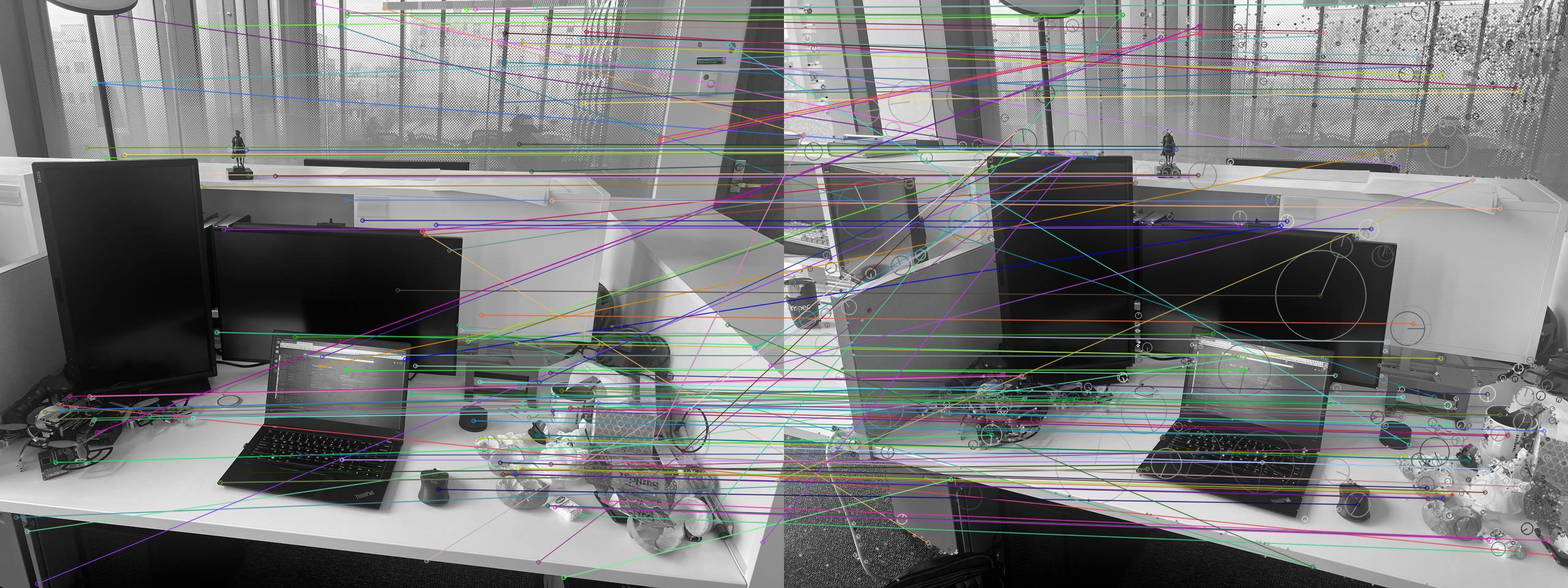
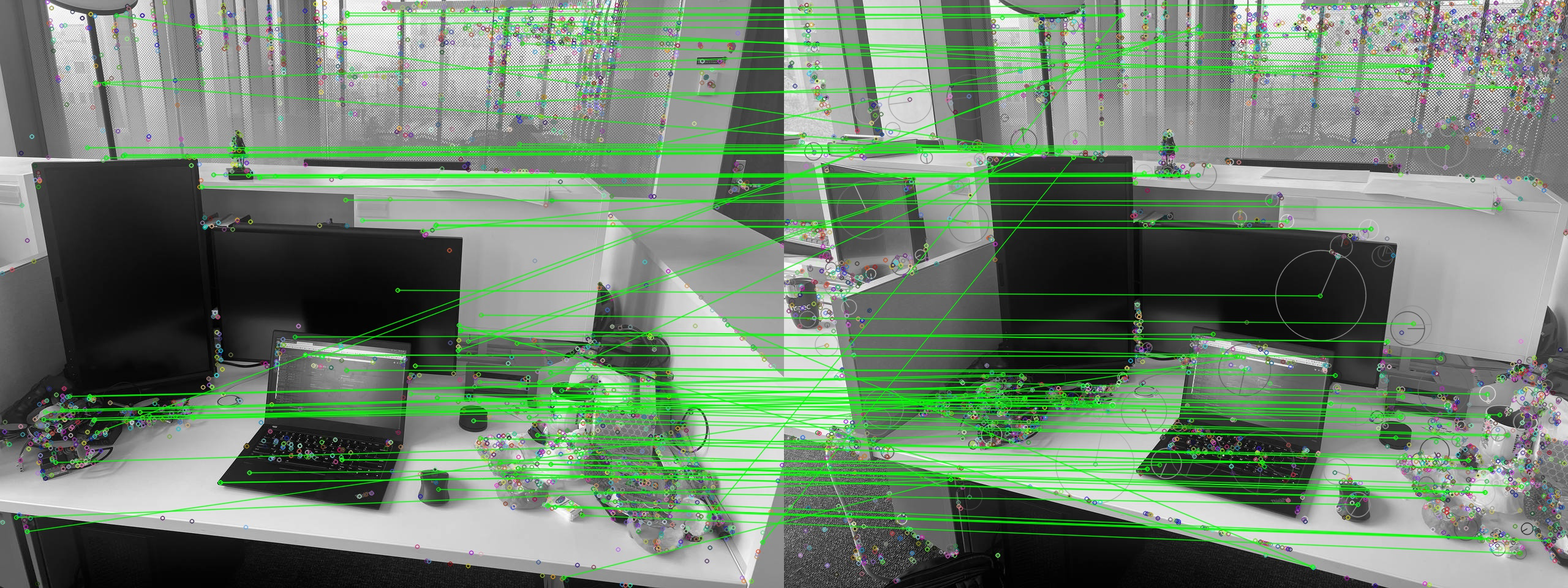
feature matching

Changed region(s): [[0.0, 0.0, 1.0, 0.9688], [0.9375, 0.2812, 0.9688, 0.3125], [0.3438, 0.9688, 0.375, 1.0]]

diff --git a/src/keyframe_detector/keyframe_detector.py b/src/keyframe_detector/keyframe_detector.py
@@ -36,15 +36,39 @@ class KeyframeDetector():
         
         good = []
         for m,n in matches:
-            if m.distance < 0.75 * n.distance:
-                good.append([m])
+            if m.distance < 0.7 * n.distance:
+                good.append(m)
         
         # cv.drawMatchesKnn expects list of lists as matches.
-        match_img = cv.drawMatchesKnn(gray, kp, 
+        draw_params = dict(matchColor = (0,255,0), 
+                           singlePointColor = None
+        )
+        match_img = cv.drawMatches(gray, kp, 
                                  prev_gray, prev_kp, 
                                  good, None,
-                                 flags=cv.DrawMatchesFlags_NOT_DRAW_SINGLE_POINTS)
+                                 **draw_params)
         cv.imwrite("./test.jpg", match_img)
+
+        # RANSAC
+        query_pts = np.float32([kp[m.queryIdx].pt for m in good]).reshape(-1,1,2)
+        train_pts = np.float32([prev_kp[m.trainIdx].pt for m in good]).reshape(-1,1,2)
+        M, mask = cv.findHomography(query_pts, train_pts, cv.RANSAC, 5.0)
+        matchesMask = mask.ravel().tolist()
+
+         
+        # render
+        draw_params = dict(matchColor = (0,255,0), 
+                           singlePointColor = None,
+                           matchesMask = matchesMask # draw only inliers
+        )
+
+        match_img = cv.drawMatches(gray, kp, 
+                                 prev_gray, prev_kp, 
+                                 good, None,
+                                 **draw_params)
+        cv.imwrite("./test_RANSAC.jpg", match_img)
+
+
         pass
 
     def detectKeyframe(self):
